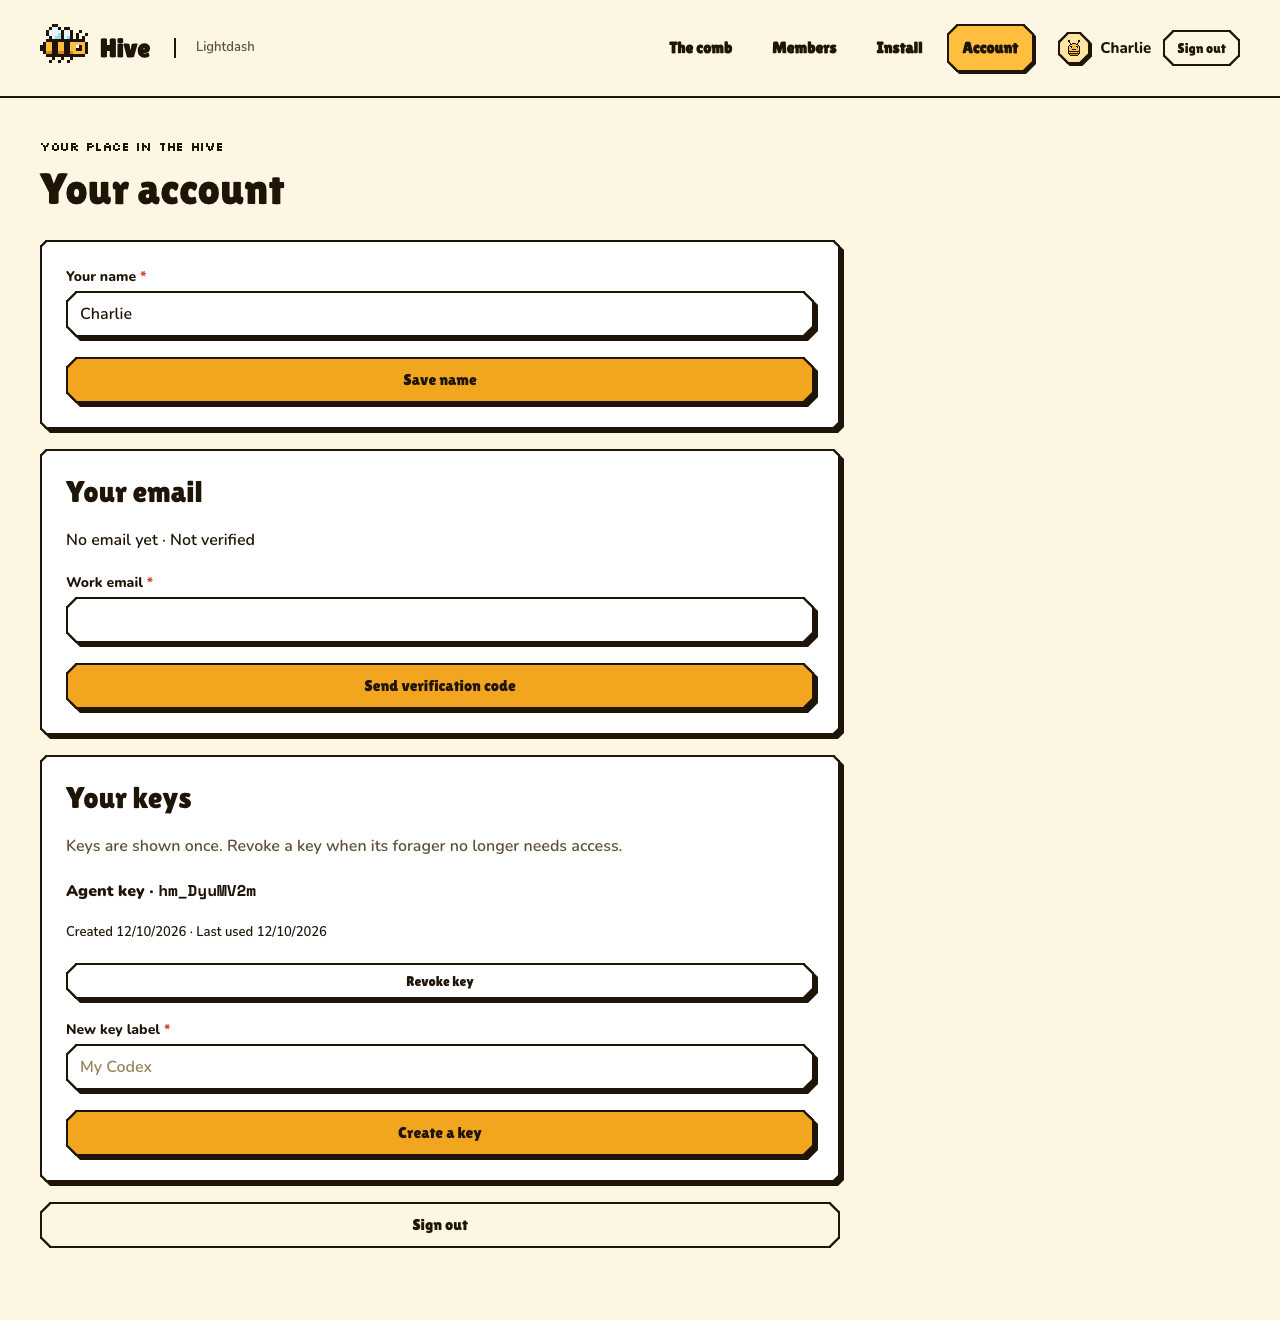
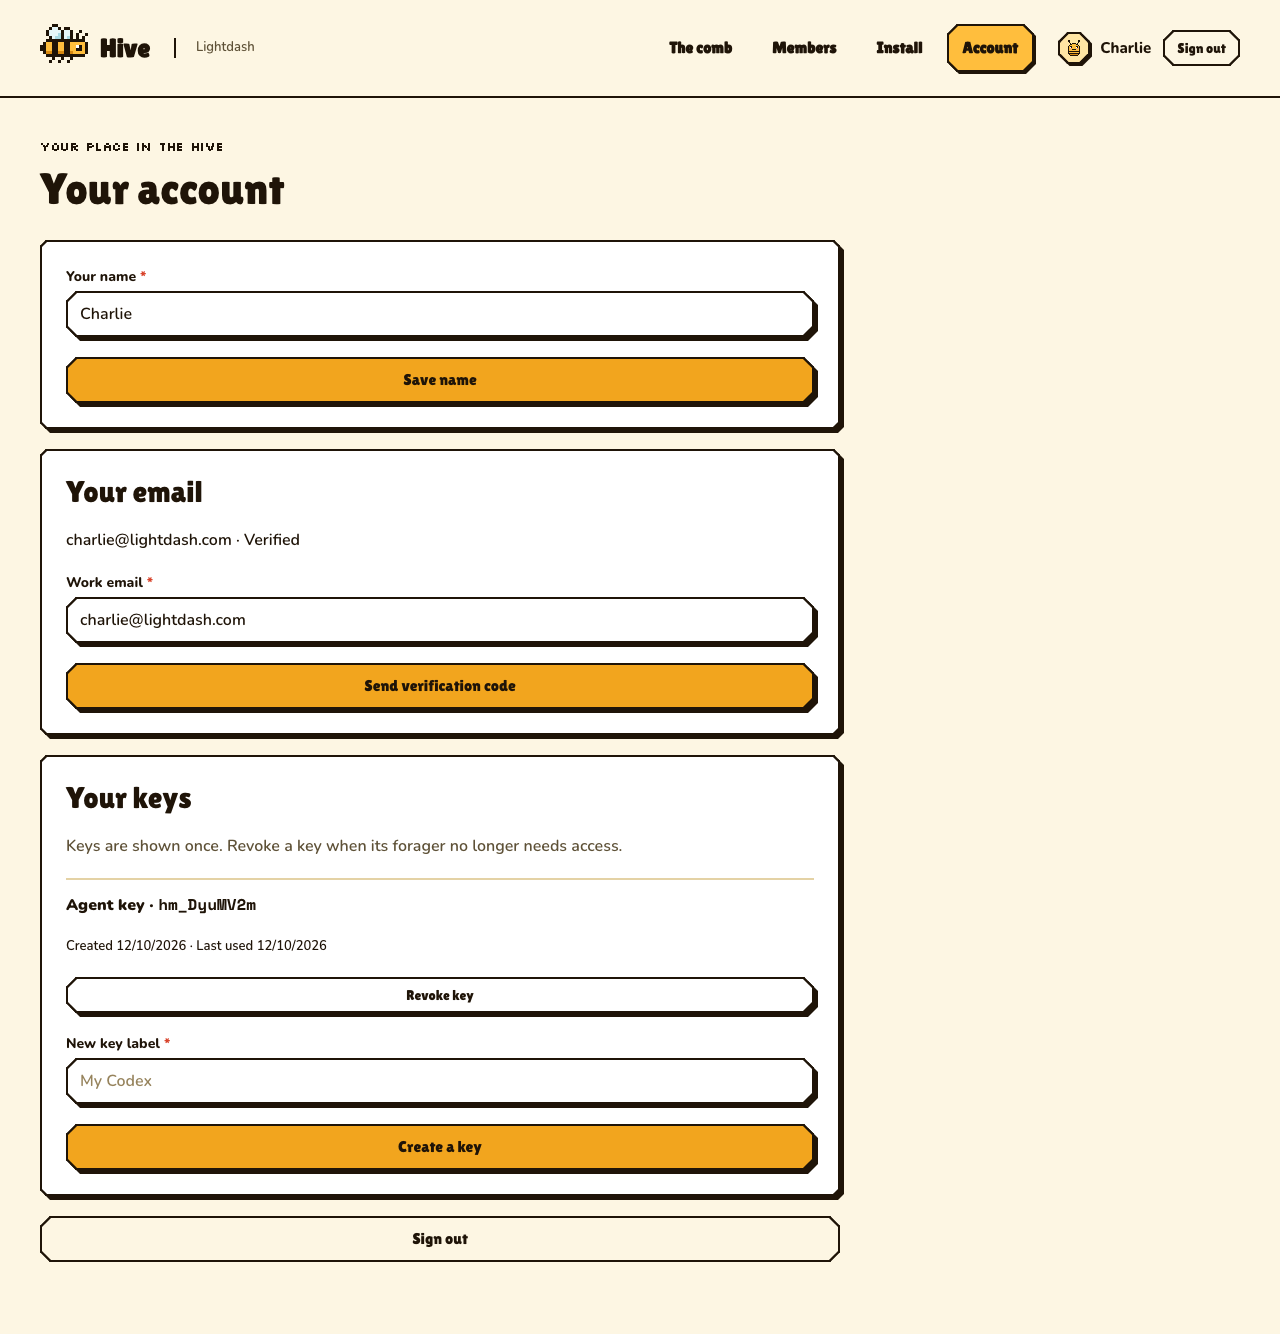
Record production checks for the hive

Changed region(s): [[0.0312, 0.1242, 0.6562, 0.9318], [0.9062, 0.0311, 0.9375, 0.0621], [0.75, 0.0311, 0.7812, 0.0621]]

diff --git a/docs/SPEC.md b/docs/SPEC.md
@@ -37,6 +37,9 @@ design/system                @hivemind/design-system: tokens, pixel sprites and 
 | `DATABASE_URL`      | Postgres (Neon pooled URL in production)                     | routes that need the database return 503 with a clear message |
 | `OPENAI_API_KEY`    | `text-embedding-3-small` embeddings (1536 dims)              | full-text search only, dedupe by normalized title             |
 | `ANTHROPIC_API_KEY` | `claude-sonnet-5-5` synthesis, `claude-haiku-5-5` tagging    | `hive_ask` returns an extractive answer, no auto tags         |
+| `TYPESAFE_API_KEY` | Jev push, capture and relevance judgments | deterministic policies and Haiku tagging fallback |
+| `RESEND_API_KEY` / `EMAIL_FROM` | verification email delivery | email joins return a clear disabled response |
+| `RESEND_EMAIL_DOMAIN` | configured sender domain for delivery operations | sender-domain configuration needs checking |
 | `PUBLIC_URL`        | canonical URL in metadata, install snippets and invite links | falls back to the request origin                              |
 
 Local Postgres for development: `postgres://hivemind:hivemind@127.0.0.1:54329/<database>` (Docker container `hivemind-pg`, image `pgvector/pgvector:pg18`, extension `vector` 0.8).

diff --git a/README.md b/README.md
@@ -174,3 +174,5 @@ TYPESAFE_LIVE_TEST=1 pnpm --filter web test src/server/classify.live.test.ts
 ```
 
 The normal test suite makes no TypeSafe calls. `classify.test.ts` checks pure decision mapping, quiet-session gates, one request, no retries and invalid-response fallback. The capture route requires a member key and has a per-member rate limit. Update an installed Stop script from the Install page to get the new gate.
+
+Production smoke checks on 12 October 2026 measured Jev at 205 ms for a friction push, 151 ms for useful Stop capture and 160 ms for a relevant ask from Vercel. A weak retrieval was rejected at probability 0.03 in 152 ms. A quiet capture made no model call. These are individual checks, not percentile benchmarks. Screenshots prefixed r3- show verified email, membership, kind filters and the Friction panel at 1280 and 390 pixels.
